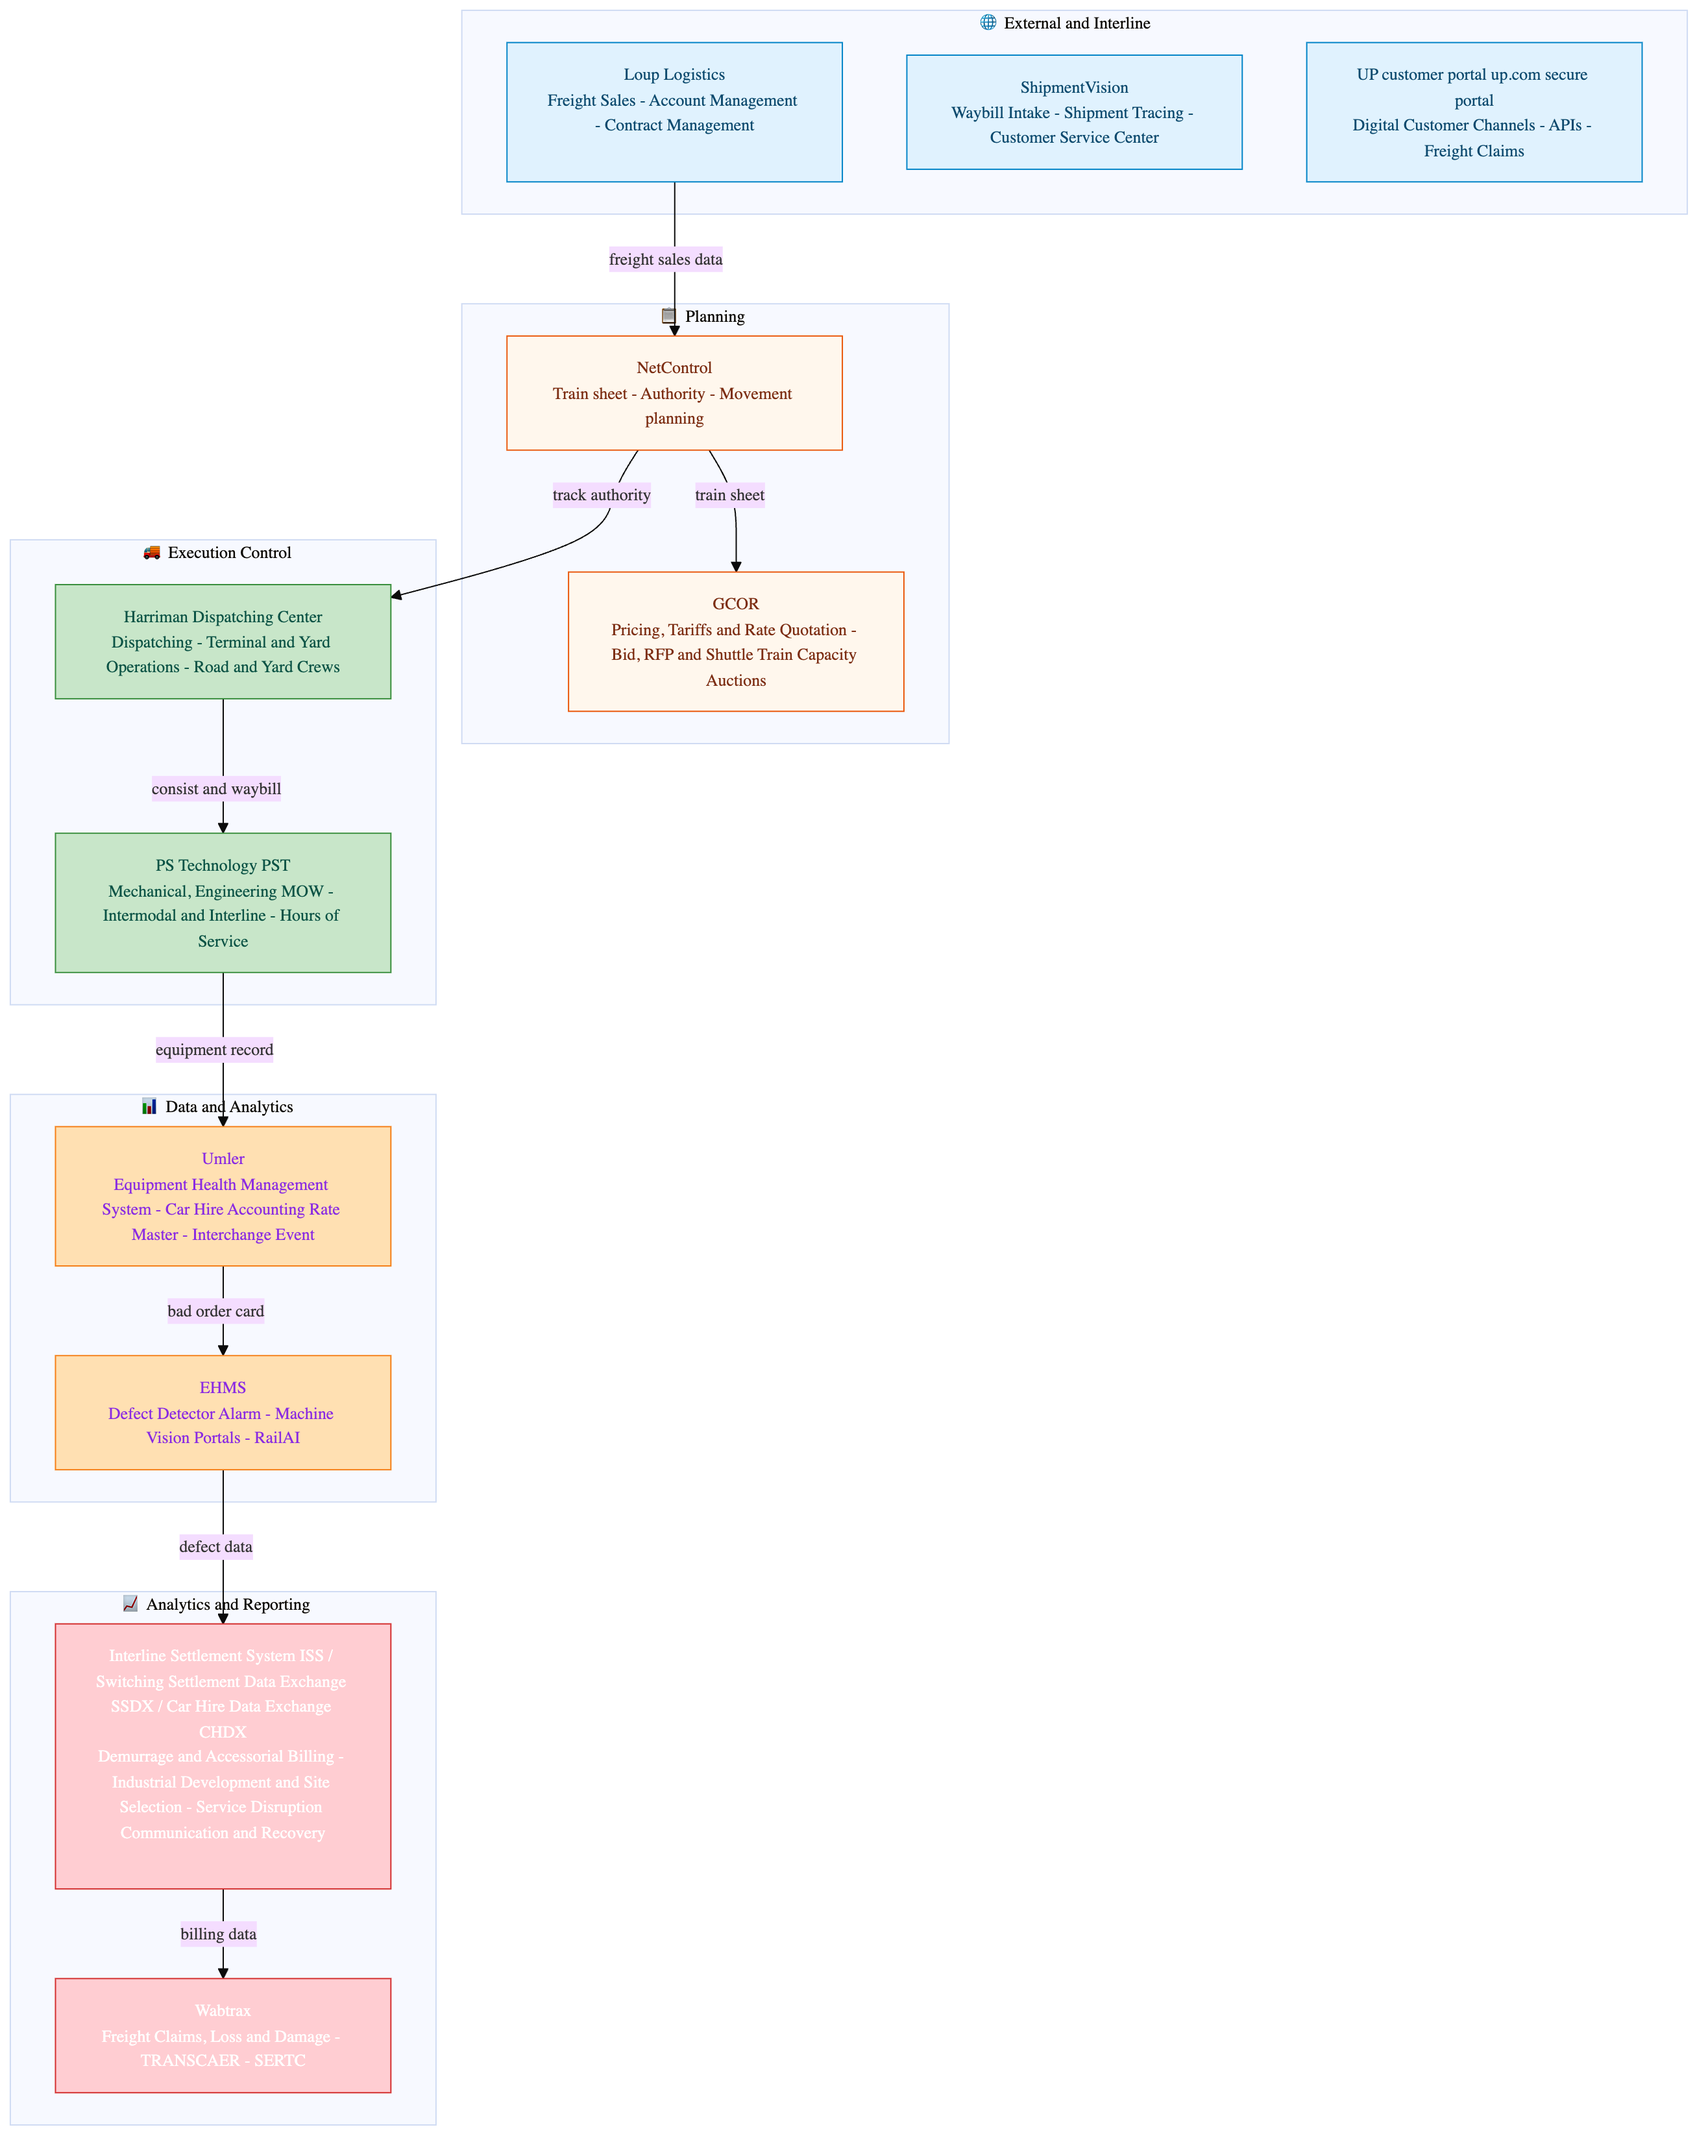
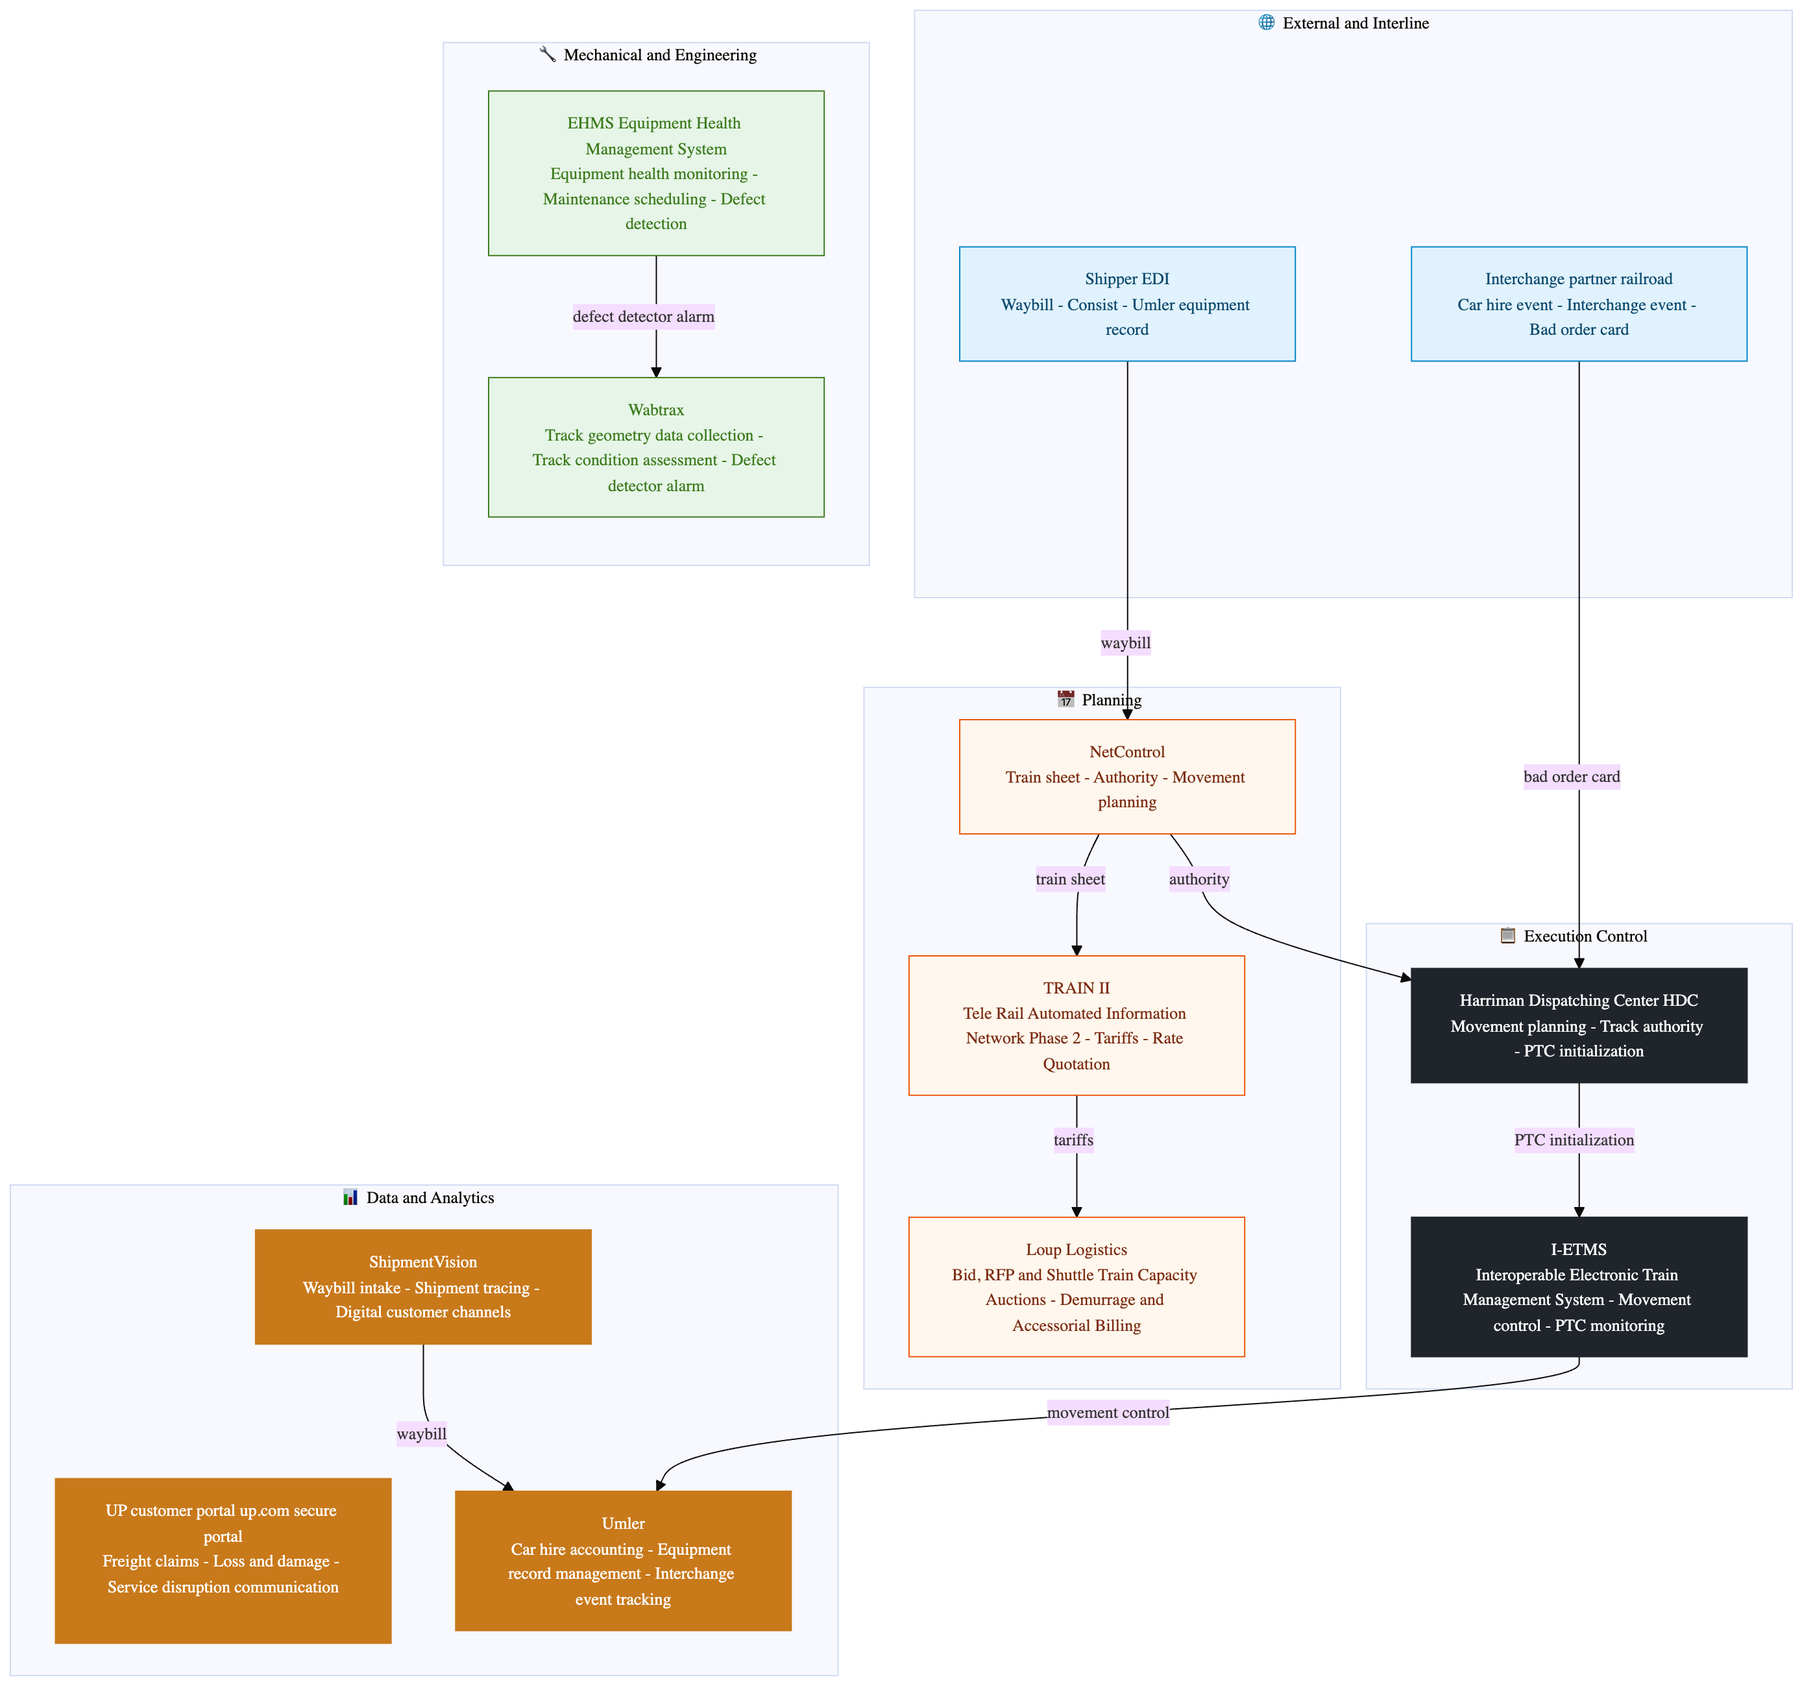
Generate EA-10 under template-v1

diff --git a/ea-diagrams/ea-10/index.html b/ea-diagrams/ea-10/index.html
@@ -1122,8 +1122,8 @@
             <tr><th>Title</th><td>Commercial, Pricing &amp; Customer Service Architecture</td></tr>
             <tr><th>L1 Domain</th><td><a href="../../rr-10-commercial-pricing-customer-service/index.html">💰 Commercial, Pricing &amp; Customer Service</a></td></tr>
             <tr><th>Scope</th><td>System landscape and data flows across Commercial, Pricing &amp; Customer Service for a US Class I freight railroad, Union Pacific archetype</td></tr>
-            <tr><th>Key Systems</th><td><span class="sys-tag loup">Loup Logistics</span> <span class="sys-tag loup">ShipmentVision</span> <span class="sys-tag loup">UP customer portal</span> <span class="sys-tag netcontrol">NetControl</span> <span class="sys-tag ietms">I-ETMS</span> <span class="sys-tag umler">Umler</span> <span class="sys-tag pst">PS Technology</span> <span class="sys-tag umler">EHMS</span></td></tr>
-            <tr><th>Description</th><td>The Commercial, Pricing &amp; Customer Service Architecture for a US Class I freight railroad involves systems that manage customer interactions, pricing strategies, and logistics operations. Key components include Loup Logistics for shipment tracking, ShipmentVision for visibility into the supply chain, and the UP customer portal (up.com) for secure access to services. Additionally, systems like NetControl support service design, while Umler manages equipment registration.</td></tr>
+            <tr><th>Key Systems</th><td><span class="sys-tag loup">Loup Logistics</span> <span class="sys-tag loup">ShipmentVision</span> <span class="sys-tag loup">up.com</span> <span class="sys-tag netcontrol">NetControl</span> <span class="sys-tag ietms">I-ETMS</span> <span class="sys-tag umler">Umler</span> <span class="sys-tag pst">PS Technology</span> <span class="sys-tag umler">EHMS</span></td></tr>
+            <tr><th>Description</th><td>The Commercial, Pricing &amp; Customer Service Architecture for a US Class I freight railroad, Union Pacific archetype, integrates various systems to manage customer interactions, pricing, logistics, and interline operations. Key components include Loup Logistics for shipment tracking, ShipmentVision for real-time visibility, and the UP customer portal (up.com) for secure access. The architecture also leverages NetControl for service design, I-ETMS for train management, Umler for equipment registration, PS Technology for crew systems, EHMS for equipment health monitoring, TRAIN II for information networks, CHARM for car hire accounting, and the Interline Settlement System for financial exchanges.</td></tr>
           </table>
         </div>
       </div>
